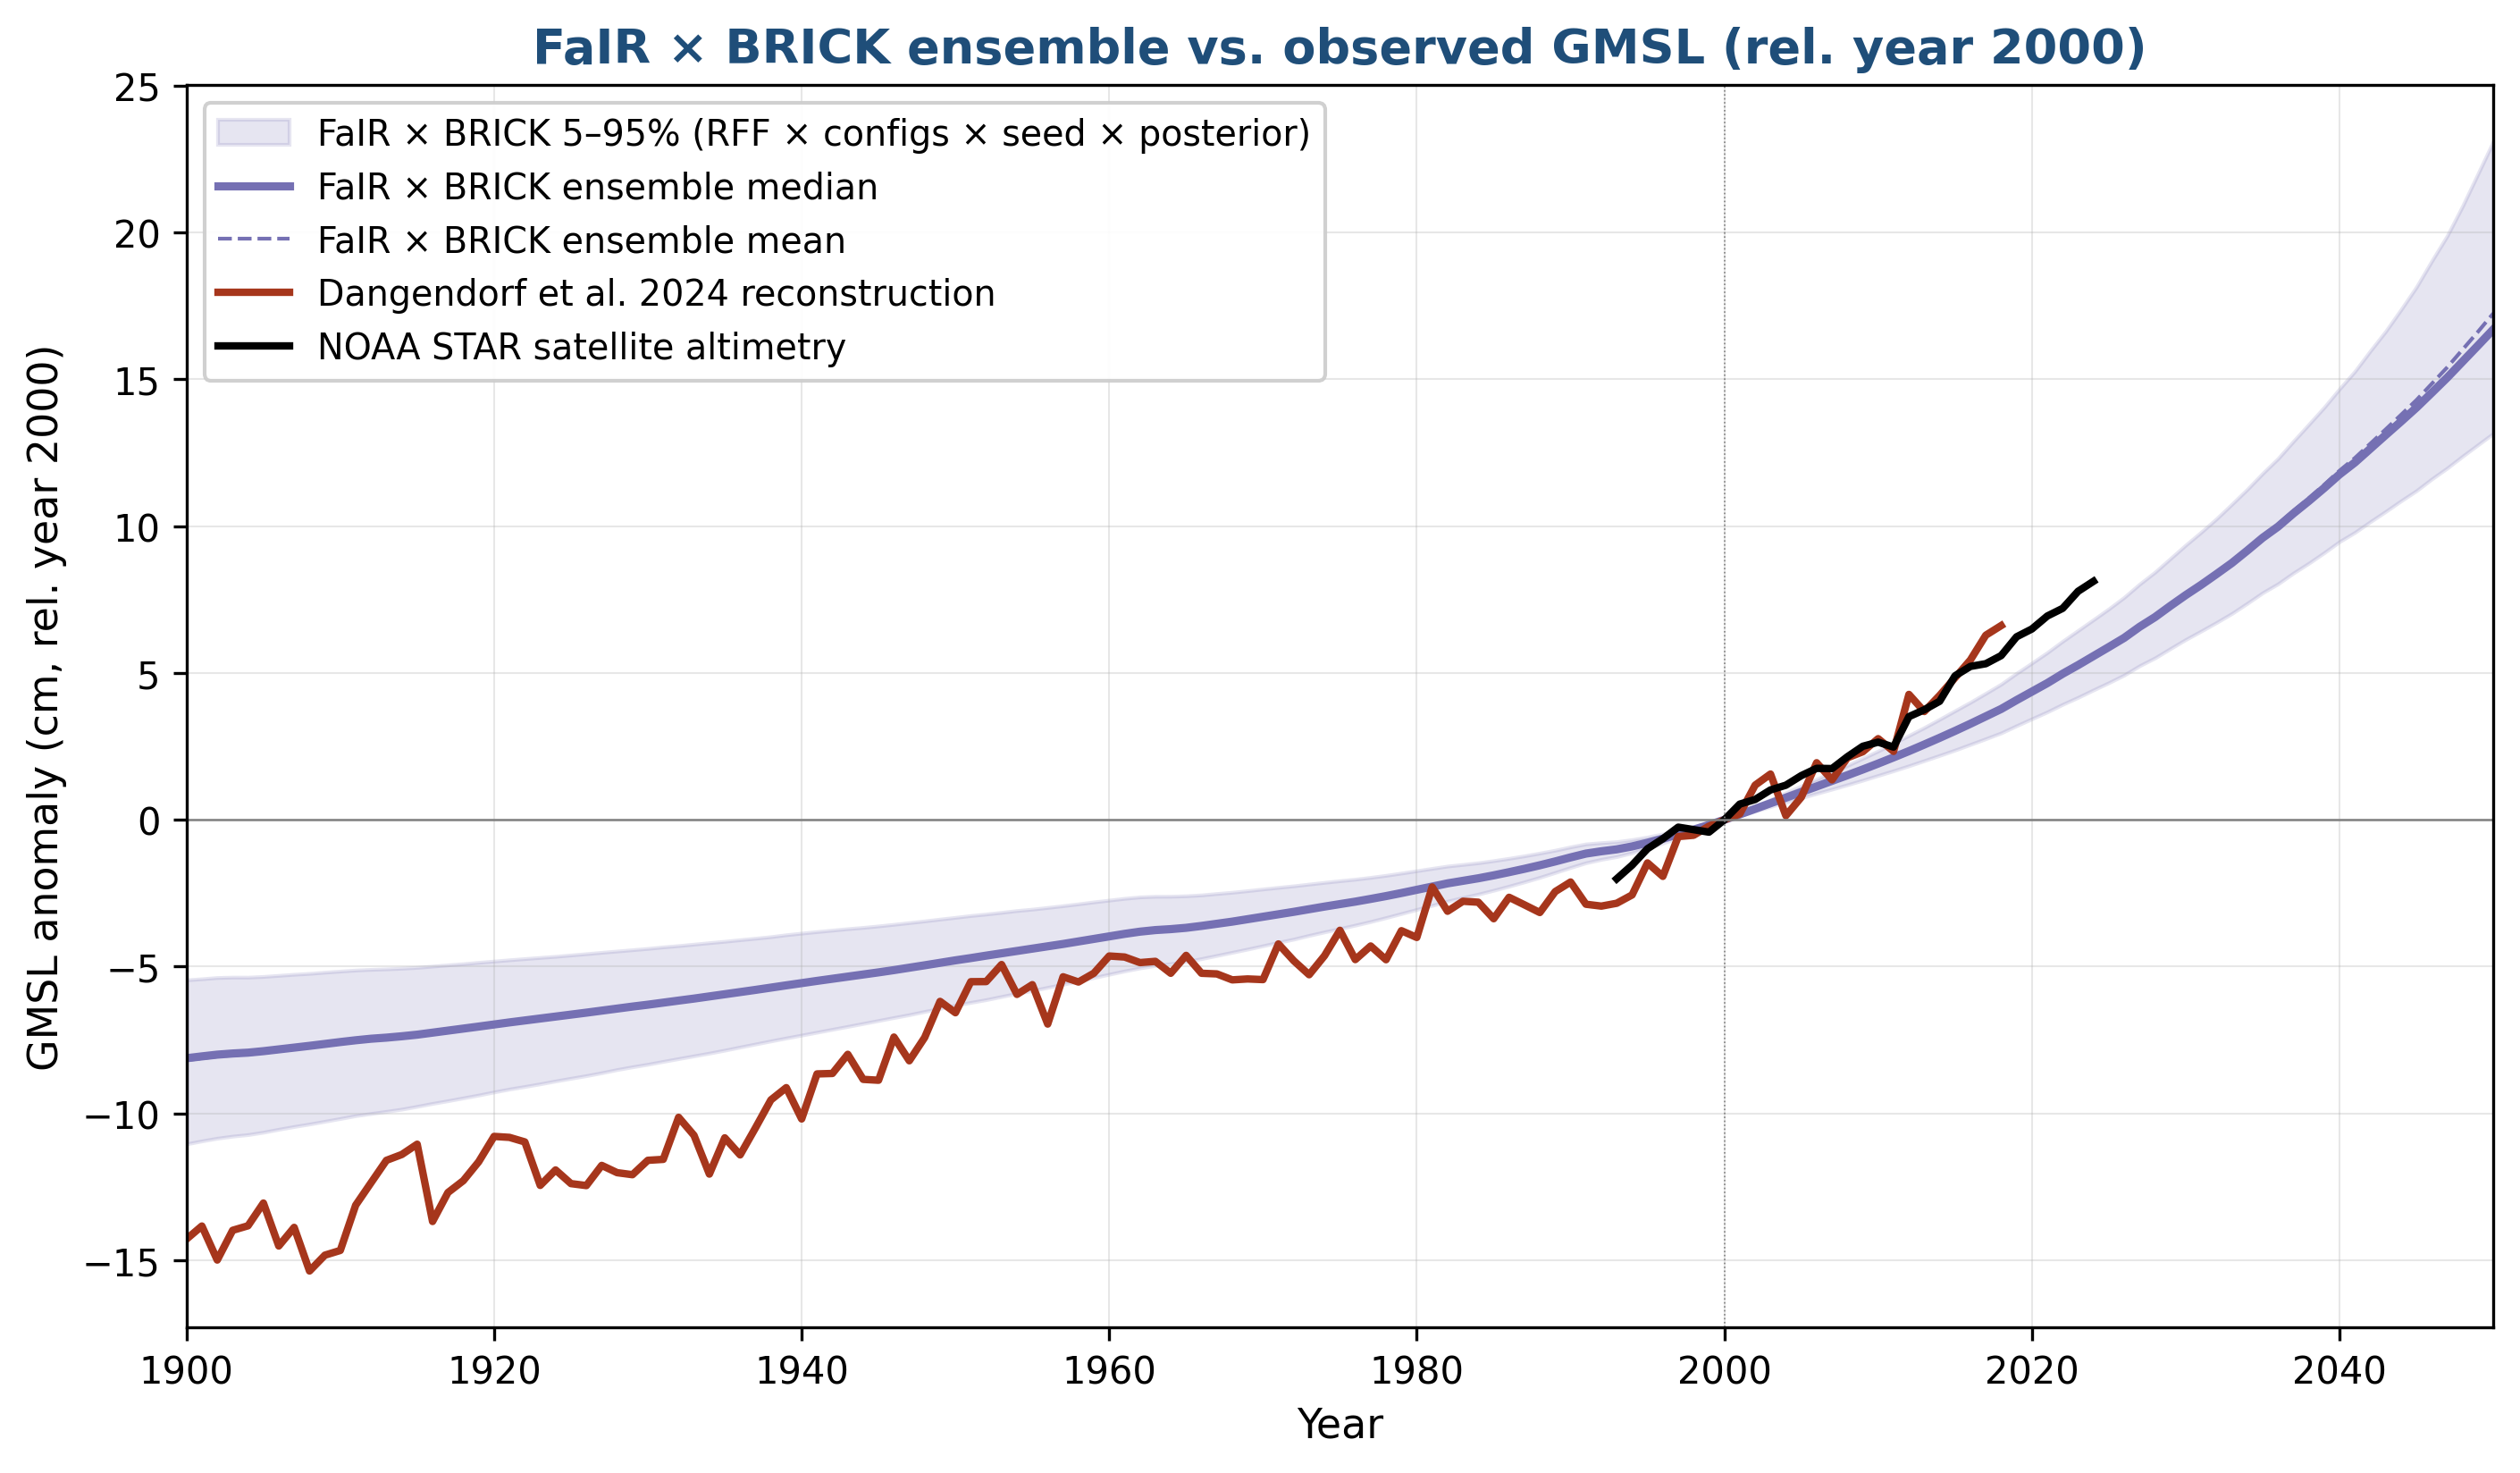
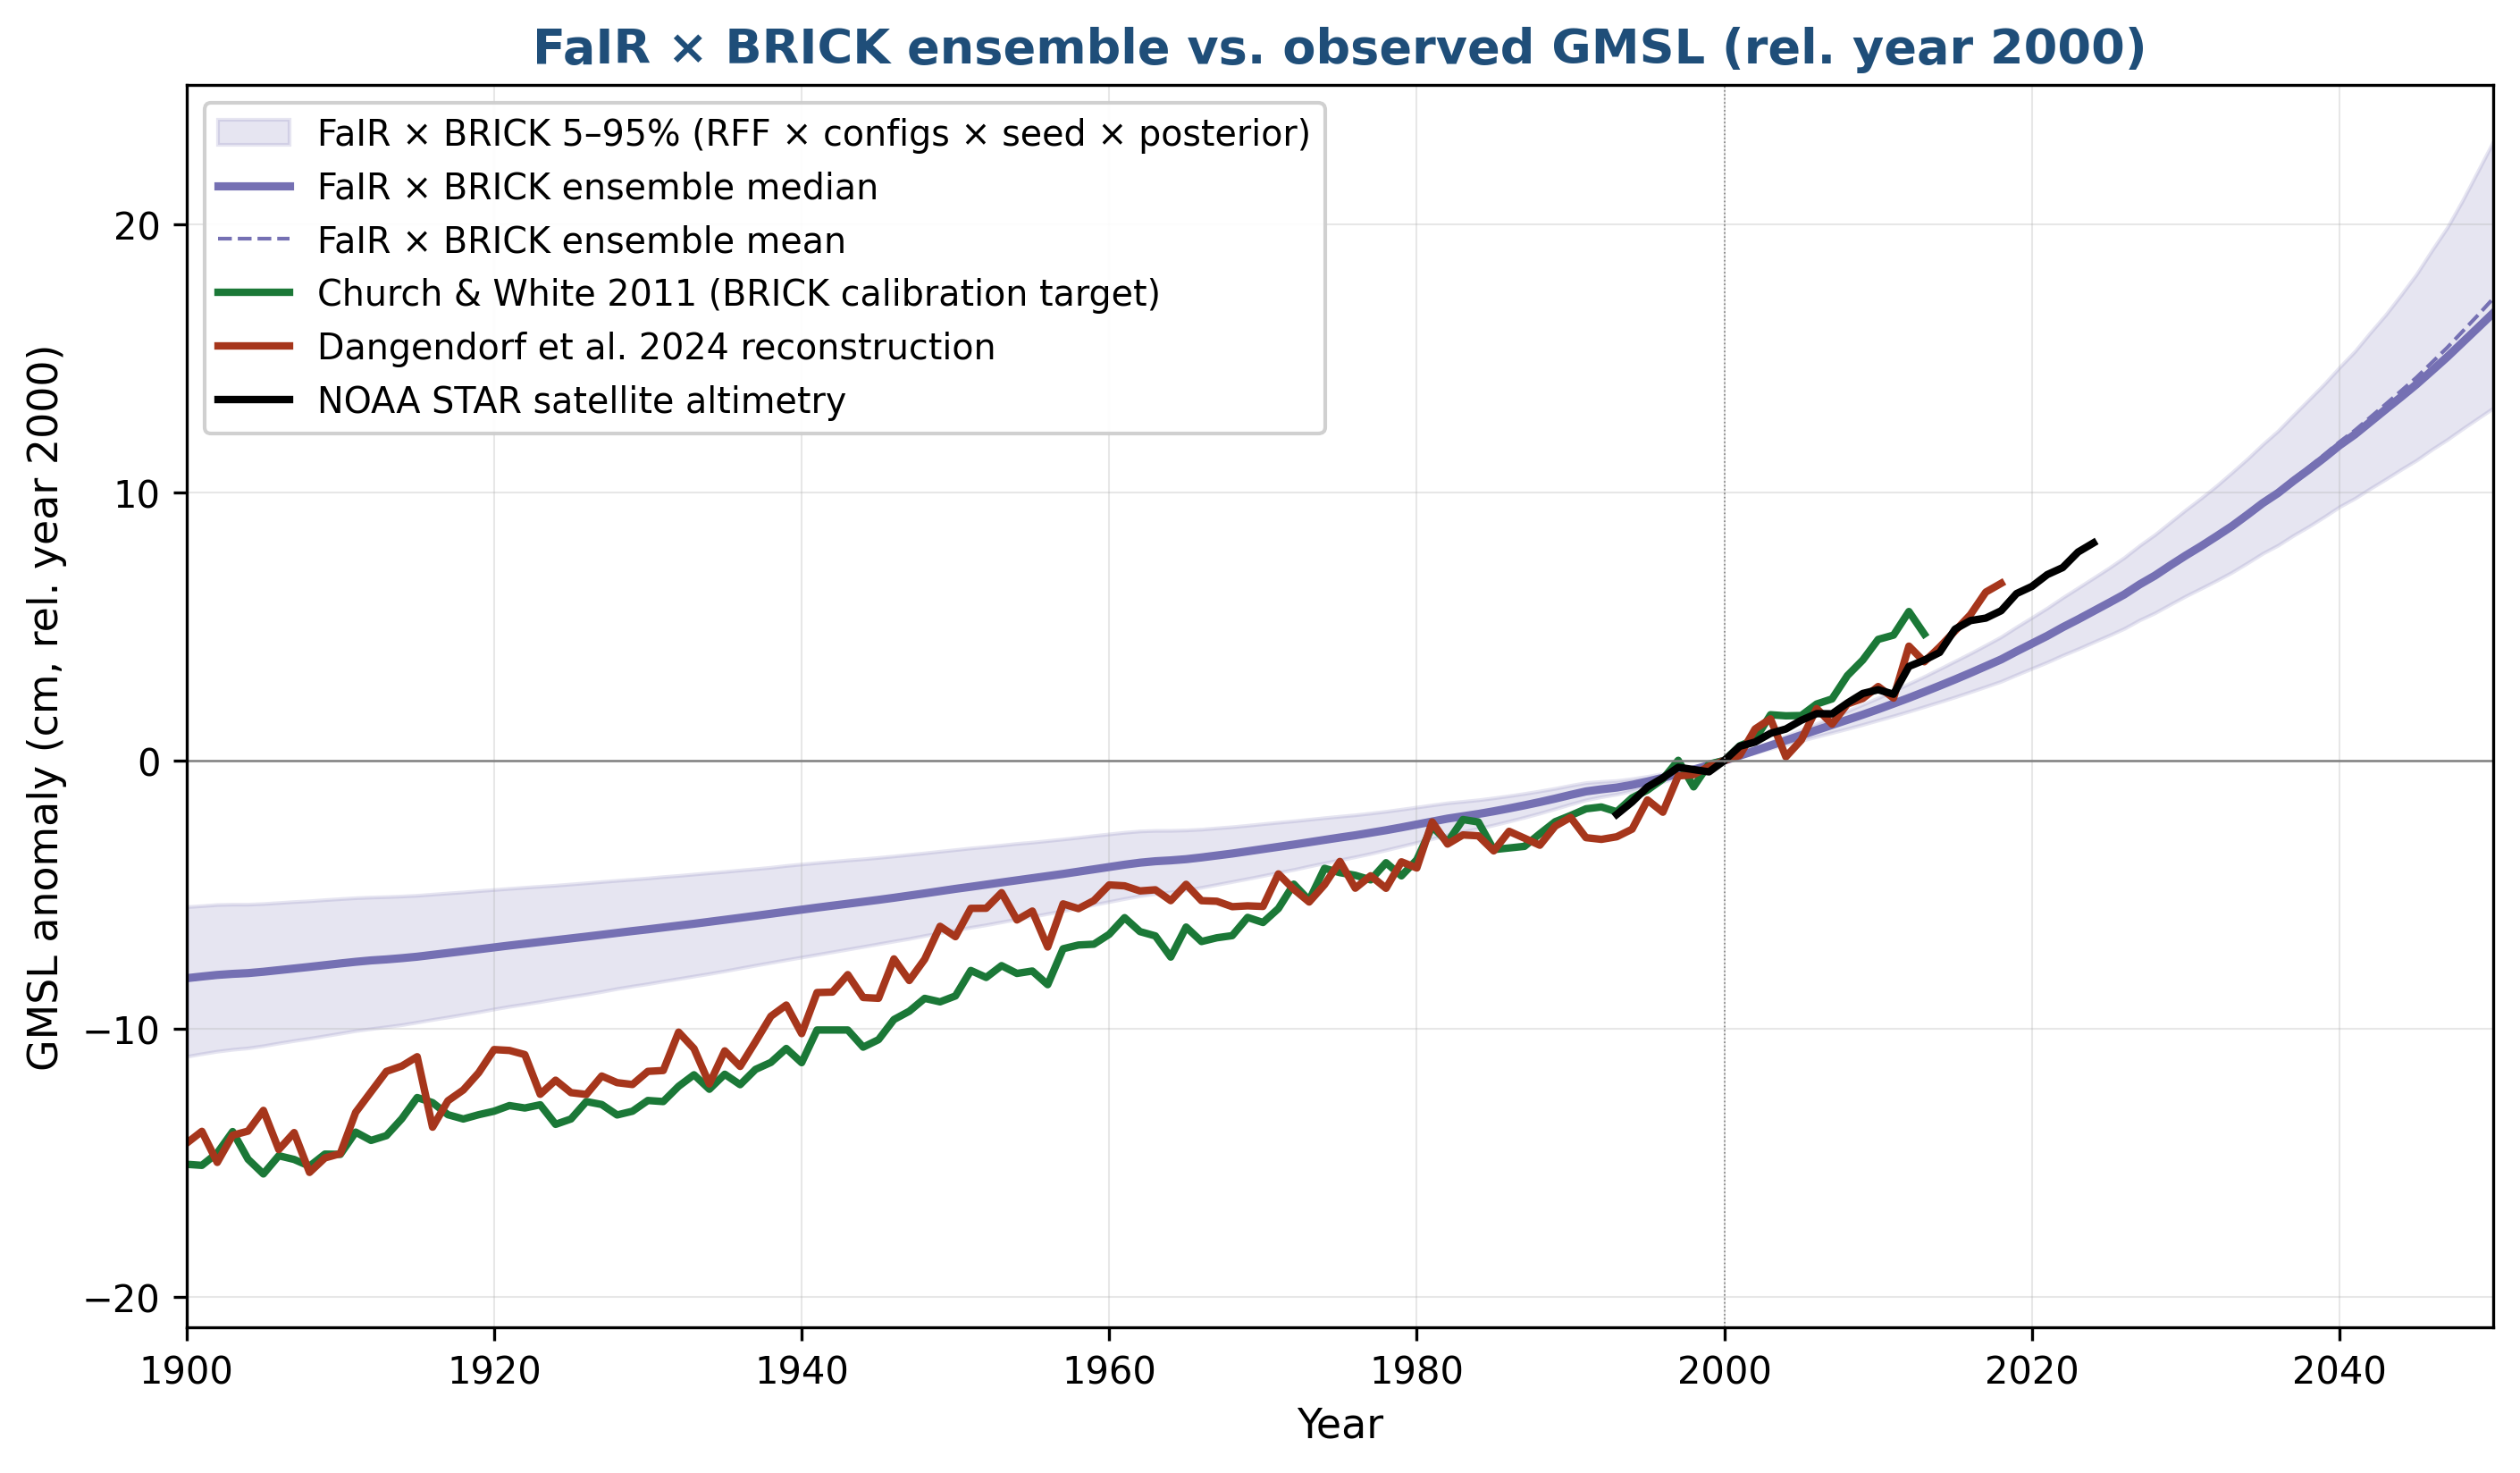
Add Church & White overlay to obs_overlay_slr (for Tony Wong follow-up)
Tony Wong noted that BRICK was calibrated against Church & White, not
Dangendorf. Adding the calibration target as a third obs series on the
substack model-vs-obs SLR figure to test whether the "BRICK underestimates
historical SLR" framing is a real BRICK shortfall or a dataset-choice
artifact.

Result (worth flagging): the Wong-Dangendorf-weighted BRICK band is
actually slightly FURTHER from Church & White than from Dangendorf in
the early 20th century. 1900-2013 total rise: BRICK p50 +10.7 cm,
Dangendorf +18.0 cm, Church & White +19.8 cm. The "BRICK below obs"
finding survives the calibration-target switch; if anything it
strengthens against C&W.

A likely explanation is that our weighted band is Dangendorf-conditional
posterior, not the intrinsic-BRICK posterior. The follow-up — producing
an unweighted BRICK overlay against the three datasets — is on the
forthcoming Tony Wong follow-up handoff in FaIRtoFrEDI/notes/.

Data added: data/calibration/CSIRO_Recons_gmsl_yr_2015.csv (Church &
White 2011 reconstruction updated to 2013, from MimiBRICK package data
via CSIRO).

diff --git a/python/scripts/substack/obs_overlay_slr.py b/python/scripts/substack/obs_overlay_slr.py
@@ -2,17 +2,31 @@
 obs_overlay_slr.py
 ==================
 
-Substack figure: FaIR × BRICK ensemble band vs observed GMSL (Dangendorf
-et al. 2024 reconstruction + NOAA STAR satellite altimetry).  Companion
+Substack figure: FaIR × BRICK ensemble band vs observed GMSL.  Companion
 to obs_overlay.py (which does the same comparison for GMST).
 
+Three observational series are overlaid:
+  • Church & White 2011 (updated to 2013) — BRICK's actual calibration
+    target. Source: CSIRO_Recons_gmsl_yr_2015.csv (MimiBRICK package data).
+  • Dangendorf et al. 2024 — newer tide-gauge reconstruction, more recent
+    methodology. NOT a BRICK calibration target.
+  • NOAA STAR satellite altimetry — modern altimetry record (1993+).
+
+The Church & White overlay was added 2026-05-20 in response to Tony Wong's
+note that BRICK was never calibrated against Dangendorf, and the "BRICK
+underestimates GMSL" finding against Dangendorf is partly a different-
+obs-dataset issue rather than a structural BRICK shortcoming. Comparing
+against the actual calibration target gives a fairer view of BRICK quality.
+
 All series re-referenced to year 2000 (the project's standard SLR baseline):
-  Model: brick_lhs10k_baseline_to2300_weighted.csv already stores
-         year-column values as 100·(gmsl[t] − gmsl[2000]) in cm.
+  Model: brick_lhs10k_baseline_to2300_weighted.csv stores year-column
+         values as 100·(gmsl[t] − gmsl[2000]) in cm.
+  Church & White 2011: native is mm with mid-year timestamps (e.g., 1880.5);
+                       we floor to integer year and convert mm → cm.
   Dangendorf 2024: native is mm relative to a centred 20th-century baseline;
-                   we rebaseline to year 2000 and convert mm → cm.
-  NOAA STAR altimetry: native is mm relative to a 1993 baseline; rebaseline
-                   to year 2000 and convert mm → cm.
+                   rebaselined to year 2000.
+  NOAA STAR altimetry: native is mm relative to a 1993 baseline; rebaselined
+                   to year 2000.
 
 The model band is plotted RAW (i.e., NOT AR6-bias-corrected to the
 observed anchor — the purpose of this figure is to expose the model-obs
@@ -21,6 +35,7 @@ by construction, identical to the rationale in obs_overlay.py for GMST).
 
 Inputs:
   outputs/brick_lhs10k_baseline_to2300_weighted.csv
+  data/calibration/CSIRO_Recons_gmsl_yr_2015.csv          (Church & White)
   data/observations/dangendorf_2024_gmsl.csv
   data/observations/nasa_gmsl_annual.csv
 
@@ -37,6 +52,7 @@ import matplotlib.pyplot as plt
 
 ROOT = Path(__file__).resolve().parents[3]
 MODEL_CSV     = ROOT / "outputs" / "brick_lhs10k_baseline_to2300_weighted.csv"
+CW_CSV        = ROOT / "data" / "calibration" / "CSIRO_Recons_gmsl_yr_2015.csv"
 DANG_CSV      = ROOT / "data" / "observations" / "dangendorf_2024_gmsl.csv"
 NASA_CSV      = ROOT / "data" / "observations" / "nasa_gmsl_annual.csv"
 OUT           = ROOT / "outputs" / "substack"
@@ -80,6 +96,26 @@ def rebase_obs_to_2000_cm(path):
     return df.year.to_numpy(), df["cm_rel_2000"].to_numpy()
 
 
+def load_church_white(path):
+    """Load Church & White 2011 reconstruction from the CSIRO-distributed
+    CSV.  File has 9 metadata lines, then the header
+    'Time,GMSL (mm),GMSL 1-sigma uncertainty (mm)' on line 10, then data.
+    Some metadata lines are quoted (starting with '"#') so pandas'
+    comment='#' option won't catch all of them — easier to skiprows=9.
+    Time column uses mid-year convention (1880.5 = annual mean for 1880).
+    Returns (year_int_array, cm_rel_2000_array).
+    """
+    df = pd.read_csv(path, skiprows=9)
+    gmsl_col = [c for c in df.columns if "GMSL" in c and "uncertainty" not in c][0]
+    years = np.floor(df["Time"].to_numpy()).astype(int)
+    mm = df[gmsl_col].to_numpy(dtype=float)
+    if 2000 not in years:
+        raise RuntimeError(f"{path.name}: year 2000 not present in floored Time column")
+    v2000 = float(mm[years == 2000][0])
+    cm_rel_2000 = (mm - v2000) / 10.0
+    return years, cm_rel_2000
+
+
 def main():
     plot_years = np.arange(PLOT_START, PLOT_END + 1)
 
@@ -87,9 +123,12 @@ def main():
     print(f"Model band: years {yrs_m.min()}-{yrs_m.max()}  "
           f"n_years={len(yrs_m)}")
 
+    cw_y, cw_v = load_church_white(CW_CSV)
     dy, dv = rebase_obs_to_2000_cm(DANG_CSV)
     ny, nv = rebase_obs_to_2000_cm(NASA_CSV)
-    print(f"Dangendorf 2024:    years {dy.min()}-{dy.max()}  "
+    print(f"Church & White 2011: years {cw_y.min()}-{cw_y.max()}  "
+          f"(2000 by construction = 0, last value = {cw_v[-1]:.2f} cm)")
+    print(f"Dangendorf 2024:     years {dy.min()}-{dy.max()}  "
           f"(2000 by construction = 0, last value = {dv[-1]:.2f} cm)")
     print(f"NOAA STAR altimetry: years {ny.min()}-{ny.max()}  "
           f"(2000 by construction = 0, last value = {nv[-1]:.2f} cm)")
@@ -104,6 +143,8 @@ def main():
     ax.plot(yrs_m, mn, color="#7570B3", linewidth=1.0, linestyle="--",
             label="FaIR × BRICK ensemble mean")
 
+    ax.plot(cw_y, cw_v, color="#1B7837", linewidth=2.0,
+            label="Church & White 2011 (BRICK calibration target)")
     ax.plot(dy, dv, color="#A6361C", linewidth=2.0,
             label="Dangendorf et al. 2024 reconstruction")
     ax.plot(ny, nv, color="#000000", linewidth=2.0,
@@ -128,11 +169,13 @@ def main():
 
     # Diagnostics at landmark years
     print("\nObs vs model centroid (cm rel year 2000):")
-    for y in (1950, 1980, 2000, 2020, 2024):
+    for y in (1900, 1950, 1980, 2000, 2013, 2020, 2024):
         line = f"  {y}:"
         if y in yrs_m:
             j = int(np.where(yrs_m == y)[0][0])
             line += f"  model_p50={p50[j]:+.2f}  p5={p5[j]:+.2f}  p95={p95[j]:+.2f}"
+        if y in cw_y:
+            line += f"  C&W={cw_v[list(cw_y).index(y)]:+.2f}"
         if y in dy:
             line += f"  Dangendorf={dv[list(dy).index(y)]:+.2f}"
         if y in ny: